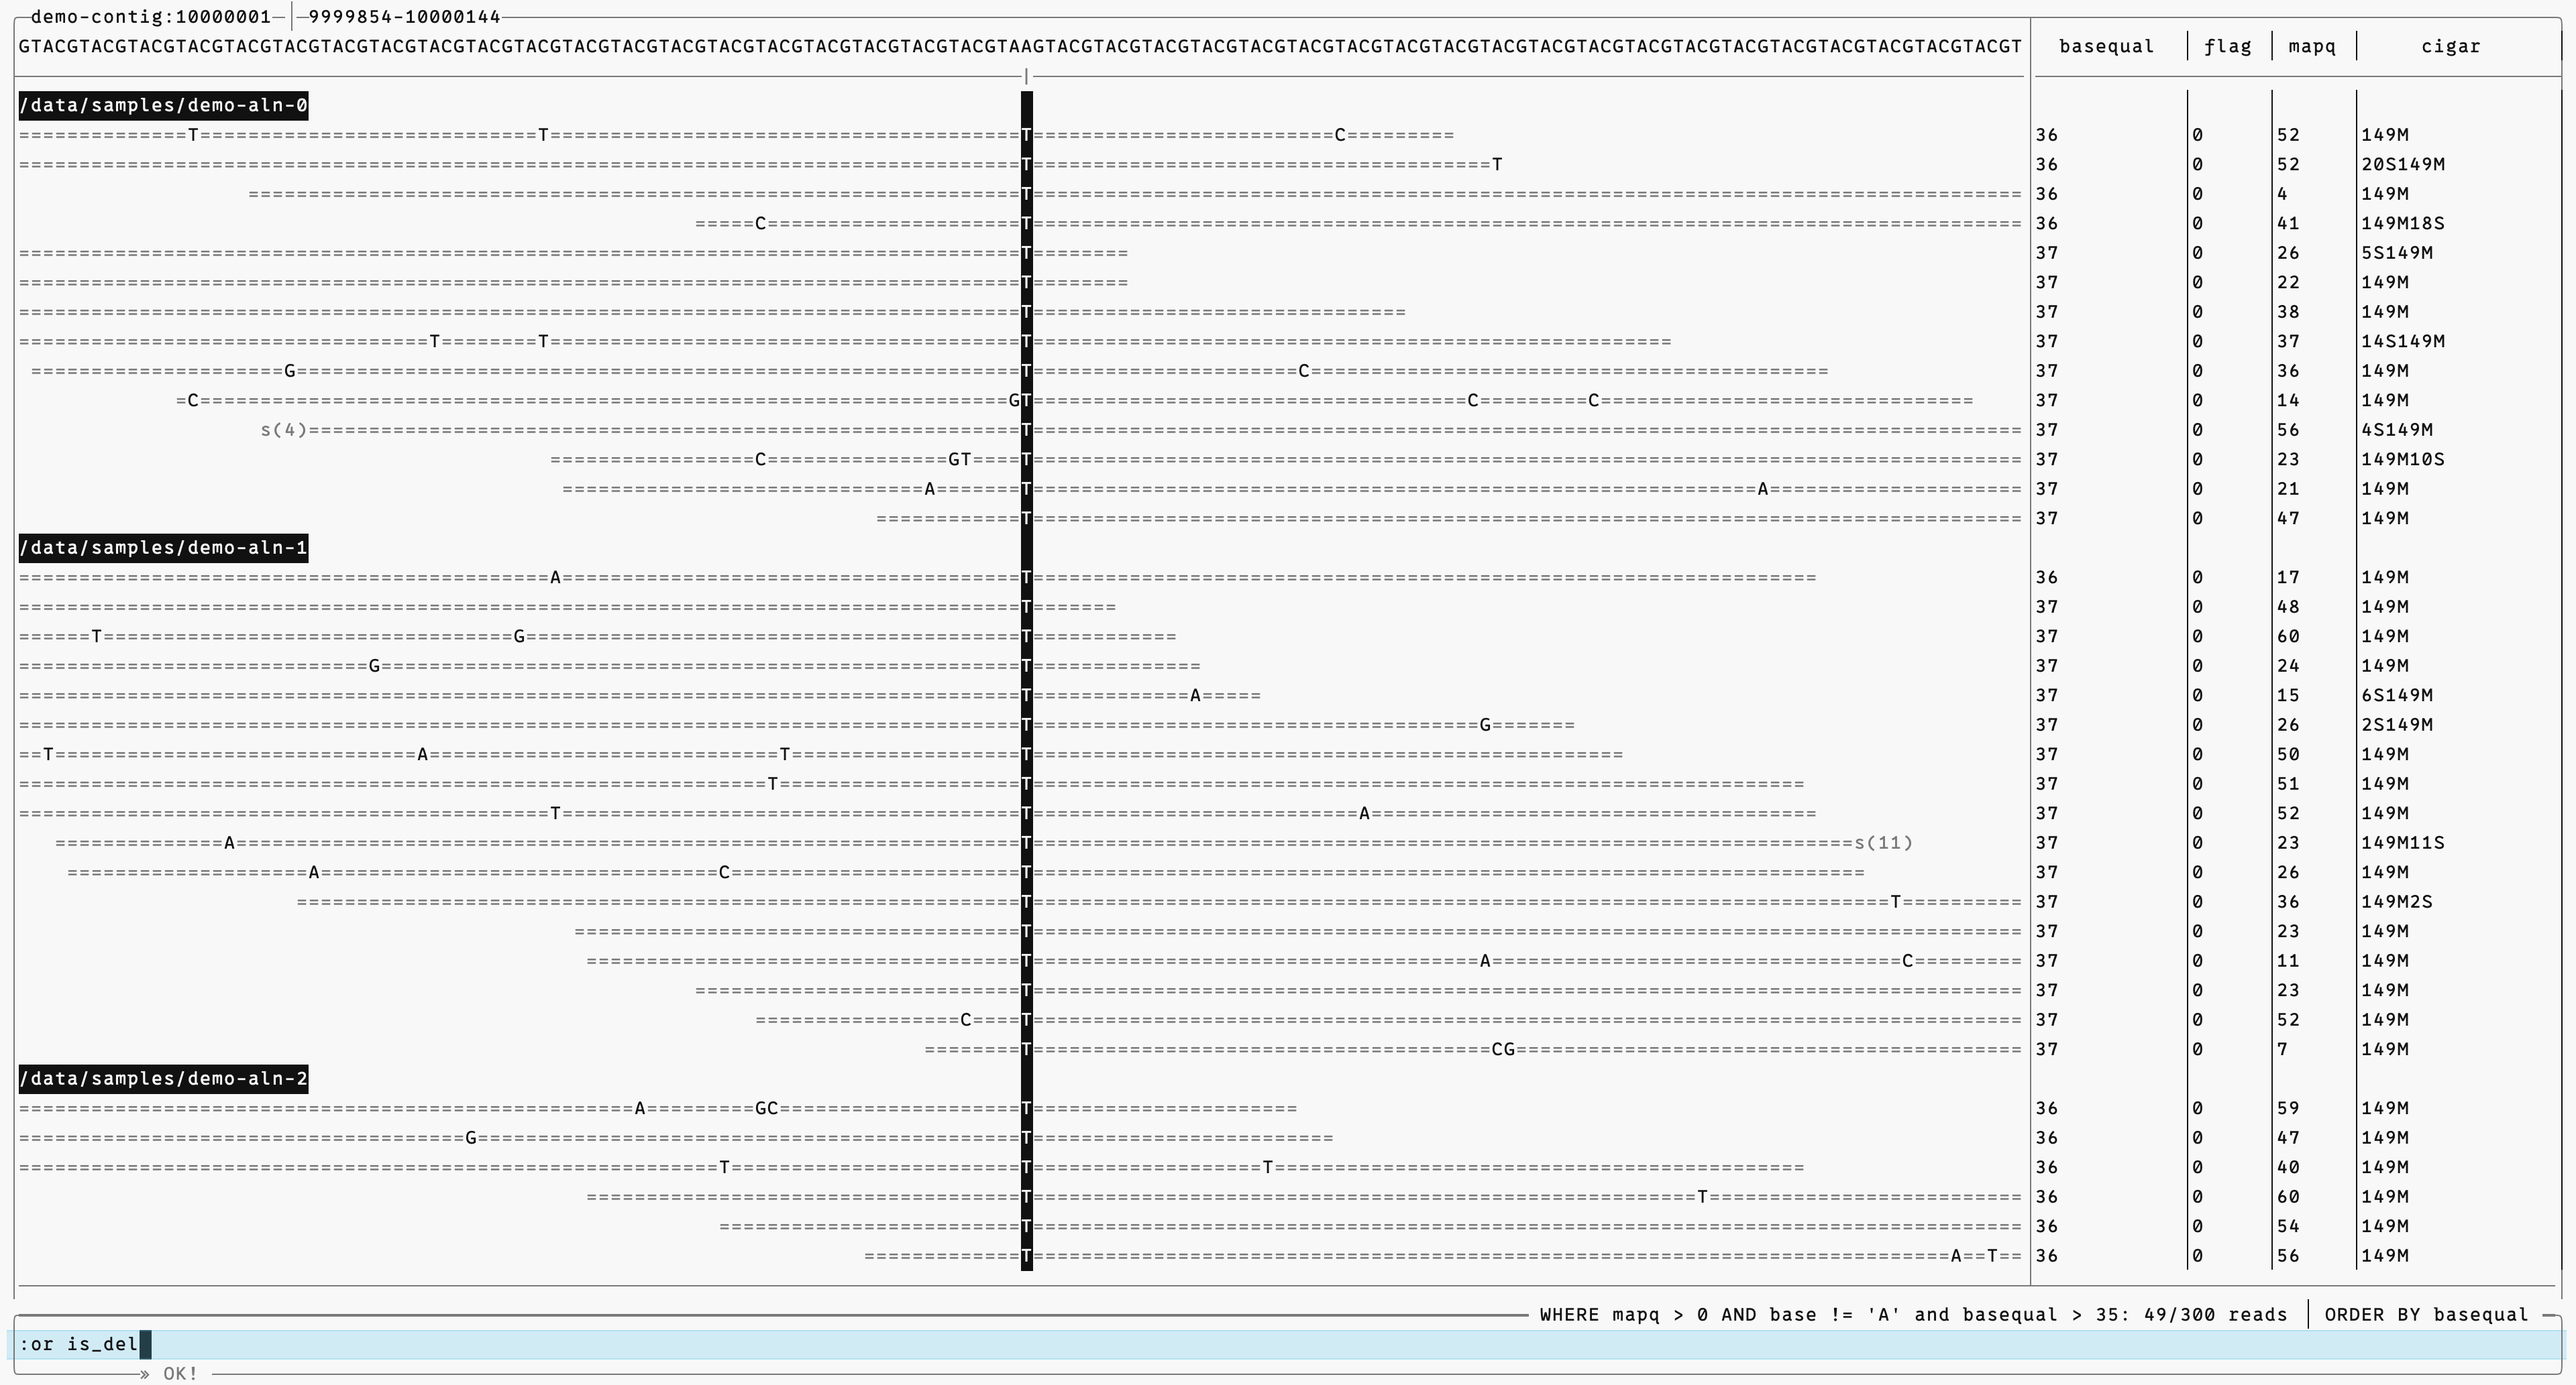
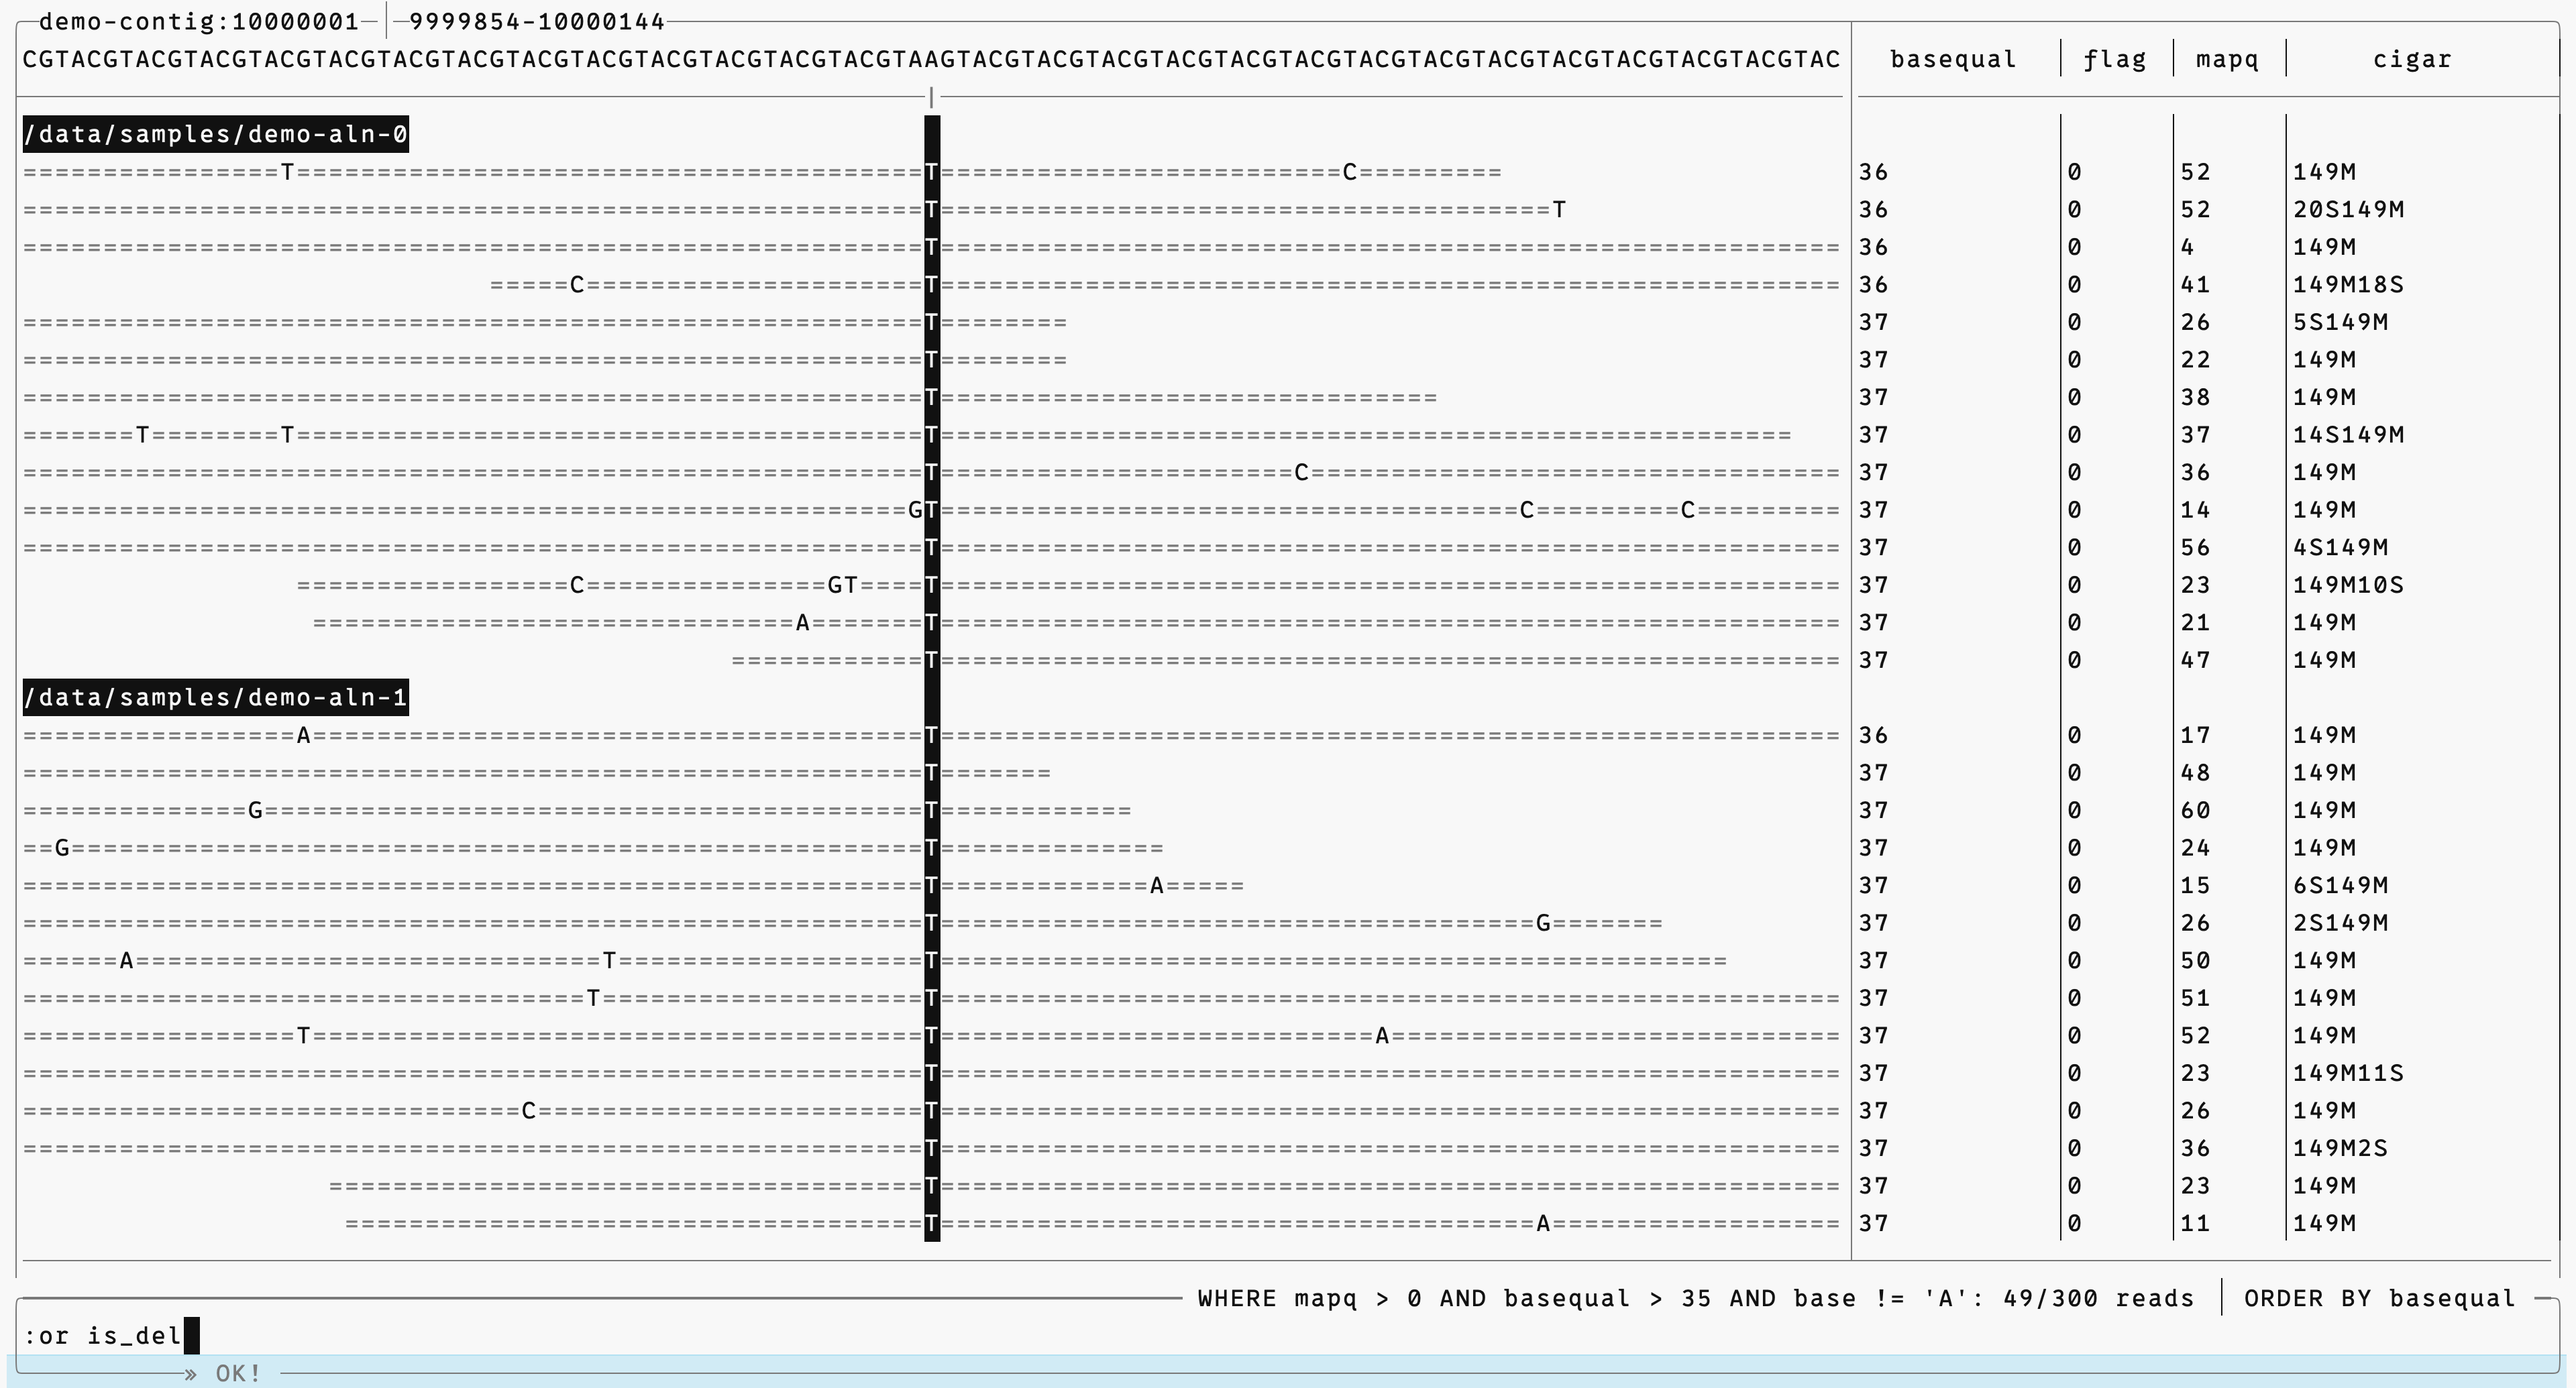
udpate docs

Changed region(s): [[0.0, 0.0, 1.0, 1.0], [0.0312, 0.6815, 0.0625, 0.7125]]

diff --git a/README.md b/README.md
@@ -4,10 +4,6 @@
 It is chiefly designed for verification and investigation of variant calls, but can be used to inspect the reads at any locus.
 The built-in command line is capable of highly complex queries, but is tuned to make exploratory pattern hunting quick and seamless.
 
-![apb screencap](apb-screencap-0.4.0.png)
-
-The TUI is split into 3 major regions. On the left you have an alignment viewer; on the right you have a tabular view of per-read data; and at the bottom you have a command line at which you can enter querying commands. Commands are typed at the command line caret `:`, and return messages are displayed below at the double chevron. The current query is displayed at the top right of the command line, including the read count. The current locus is displayed at the top left of the alignment viewer. In the alignment viewer, `=` matches the reference, `x` is a deletion, and a ring over a base marks an insertion, displayed beneath at `^`. The display is configurable; many additional columns may be viewed in the table viewer, the alignment viewer can display qualities in a number of ways, etc. The browser is navigated by simple readline based keybindings, and there is extensive and clear documentation available in the manual.
-
 **Advantages:**
 - Powerful SQL-based query syntax for intuitive investigation.
 - Highly performant and responsive
@@ -20,6 +16,10 @@ The TUI is split into 3 major regions. On the left you have an alignment viewer;
 - Easily installed, including on compute cluster nodes.
 - UI optimised specifically for inspecting pileup loci over general-purpose genome browsing.
 - Immediately available in the terminal; no spinning up a web instance or navigating a web UI.
+
+![apb screencap](apb-screencap-0.4.0.png)
+
+The TUI is split into 3 major regions. On the left you have an alignment viewer; on the right you have a table of per-read data; and at the bottom you have a command line at which you can enter querying commands. Commands are typed at the command line caret `:`, and return messages are displayed below at the double chevron. The current query is displayed at the top right of the command line, including the read count. The current locus is displayed at the top left of the alignment viewer. In the alignment pane, `=` matches the reference, `x` is a deletion, and a ring over a base marks an insertion, displayed beneath at `^`. The display is configurable; many additional columns may be viewed in the table, the alignment pane can display qualities in a number of ways, etc. The browser is navigated by simple readline based keybindings, and there is extensive and clear documentation available in the manual.
 
 **`apb` is pre-1.0!**
 All features are subject to change. You may experience crashes or bugs - if so, please report them!
